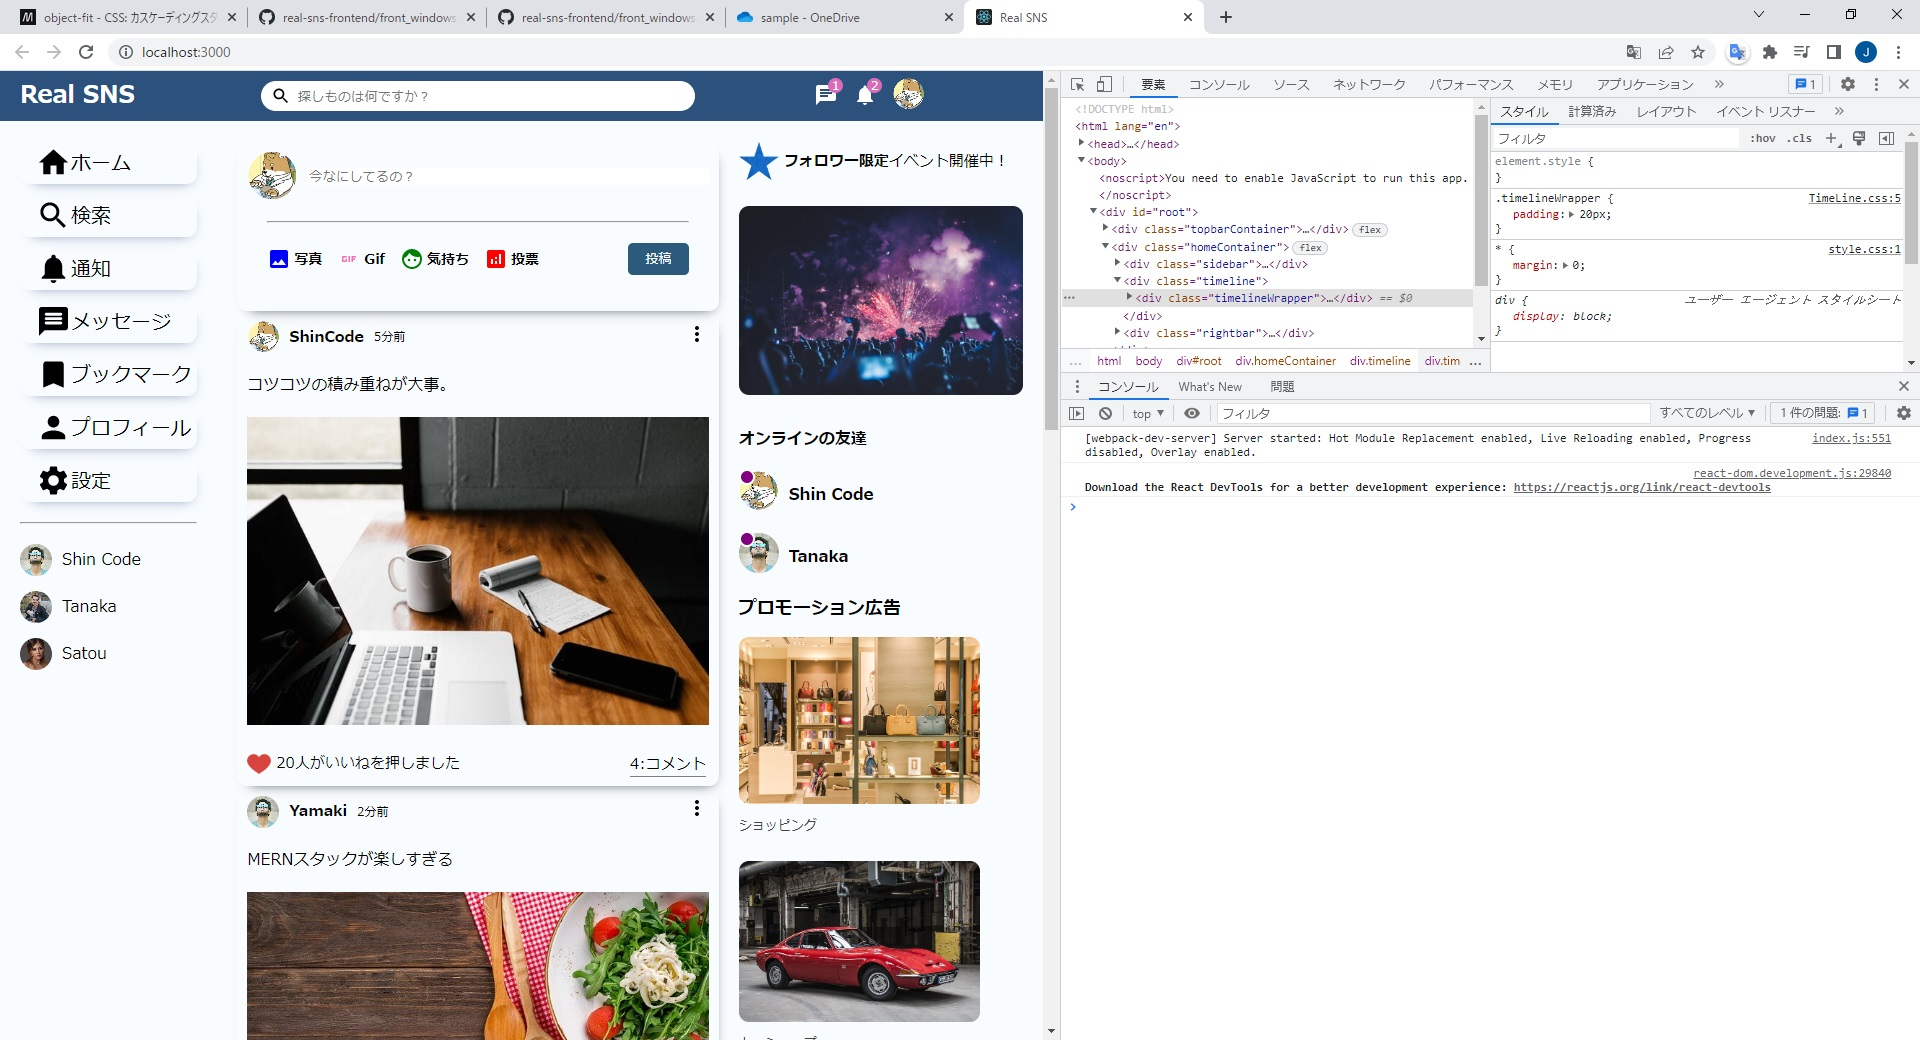
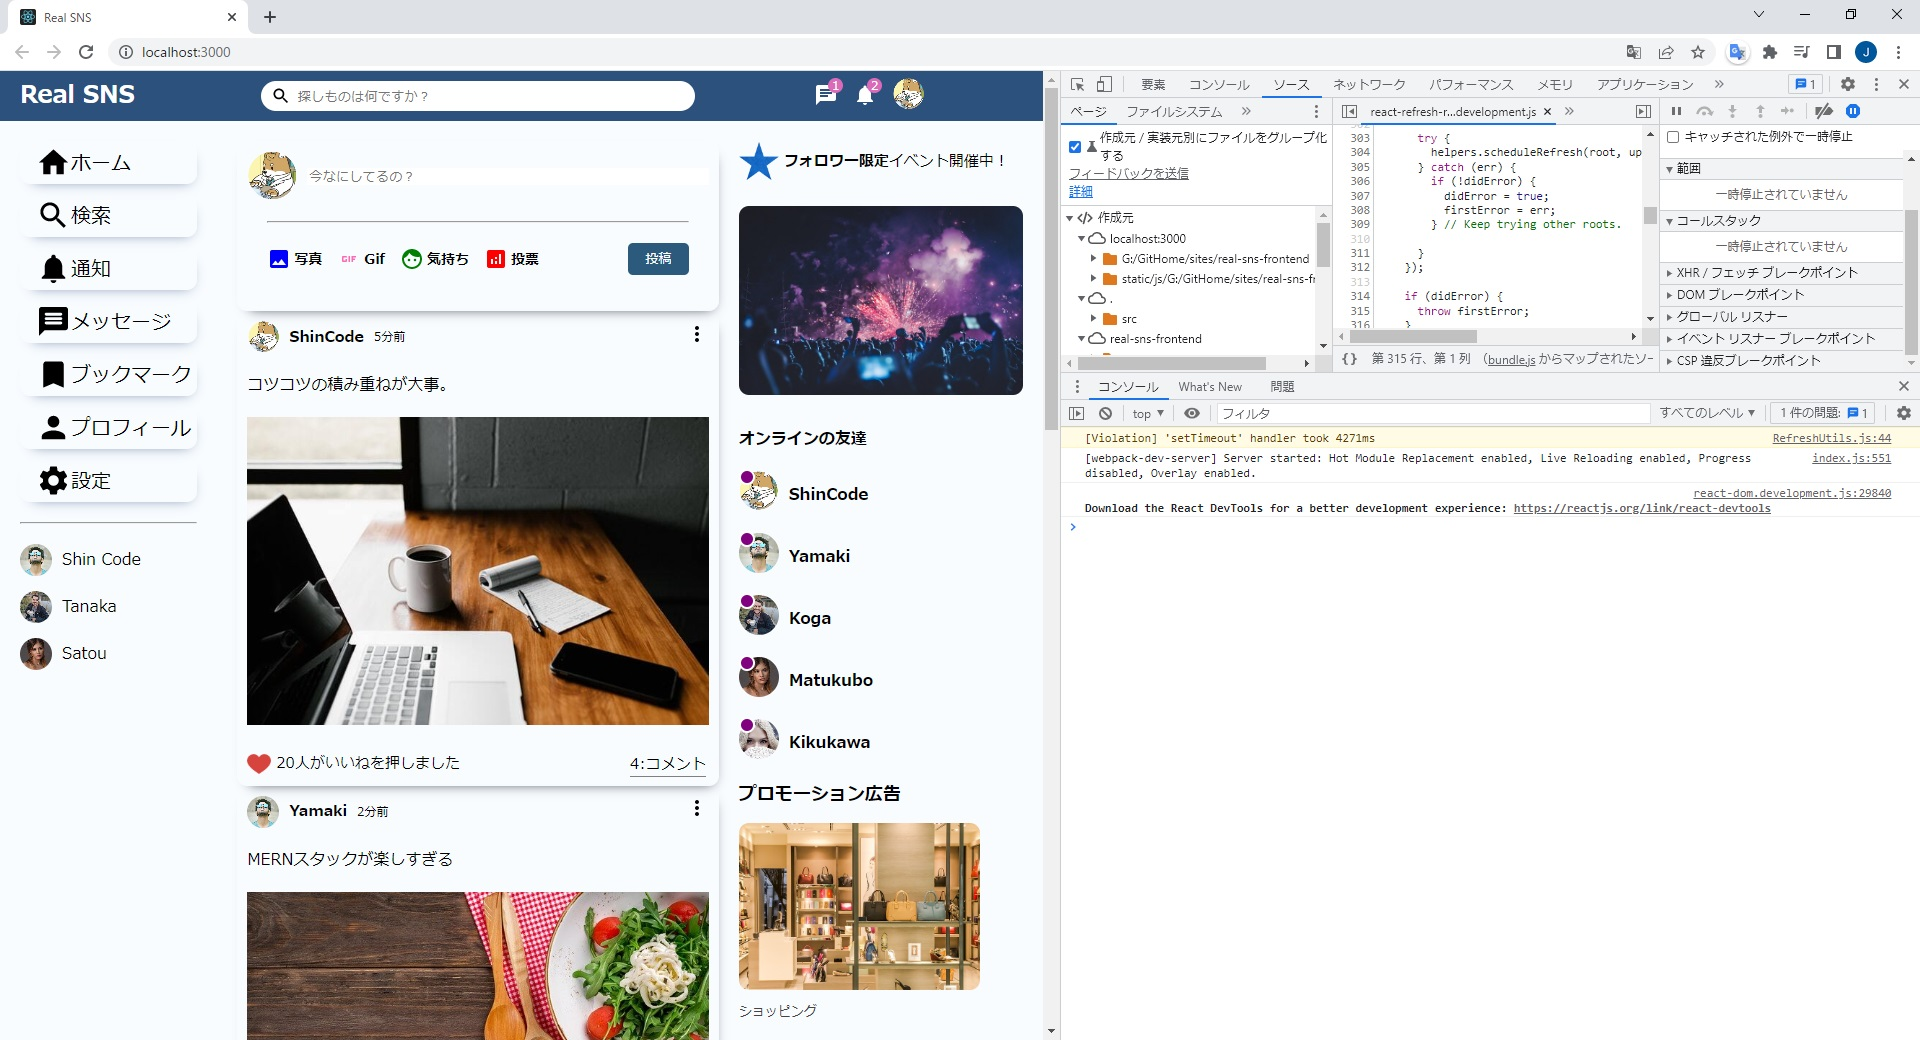
L61. RightBar オンラインデータ←ダミーデータ

diff --git a/src/components/rightbar/Rightbar.jsx b/src/components/rightbar/Rightbar.jsx
@@ -1,5 +1,7 @@
 import React from 'react'
 import "./Rightbar.css"
+import { Users } from "../../dummyData";
+import Online from '../online/Online';
 
 export default function Rightbar() {
   return (
@@ -14,20 +16,10 @@ export default function Rightbar() {
           <img className="eventImg" src="assets/event.jpeg" alt="" />
           <h4 className="rightbarTitle">オンラインの友達</h4>
           <ul className="rightbarFriendList">
-            <li className="rightbarFriend">
-              <div className="rightbarProfileImgContainer">
-                <img className="rightbarProfileImg" src="assets/person/1.jpeg" alt="" />
-                <span className="rightbarOnline"></span>
-              </div>
-              <span className="rightbarUsername">Shin Code</span>
-            </li>
-            <li className="rightbarFriend">
-              <div className="rightbarProfileImgContainer">
-                <img  className="rightbarProfileImg" src="assets/person/2.jpeg" alt="" />
-                <span className="rightbarOnline"></span>
-              </div>
-              <span className="rightbarUsername">Tanaka</span>
-            </li>
+            { Users.map((user) => (
+              <Online user={user} key={user.id} />
+            ))}
+            
           </ul>
           <p className="promotionTitle">プロモーション広告</p>
           <img 

diff --git a/src/components/online/Online.jsx b/src/components/online/Online.jsx
@@ -1,0 +1,13 @@
+import React from 'react'
+
+export default function Online( { user }) {
+  return (
+    <li className="rightbarFriend">
+        <div className="rightbarProfileImgContainer">
+            <img className="rightbarProfileImg" src={ user.profilePicture } alt="" />
+            <span className="rightbarOnline"></span>
+        </div>
+        <span className="rightbarUsername">{ user.username }</span>
+    </li>
+  );
+}
